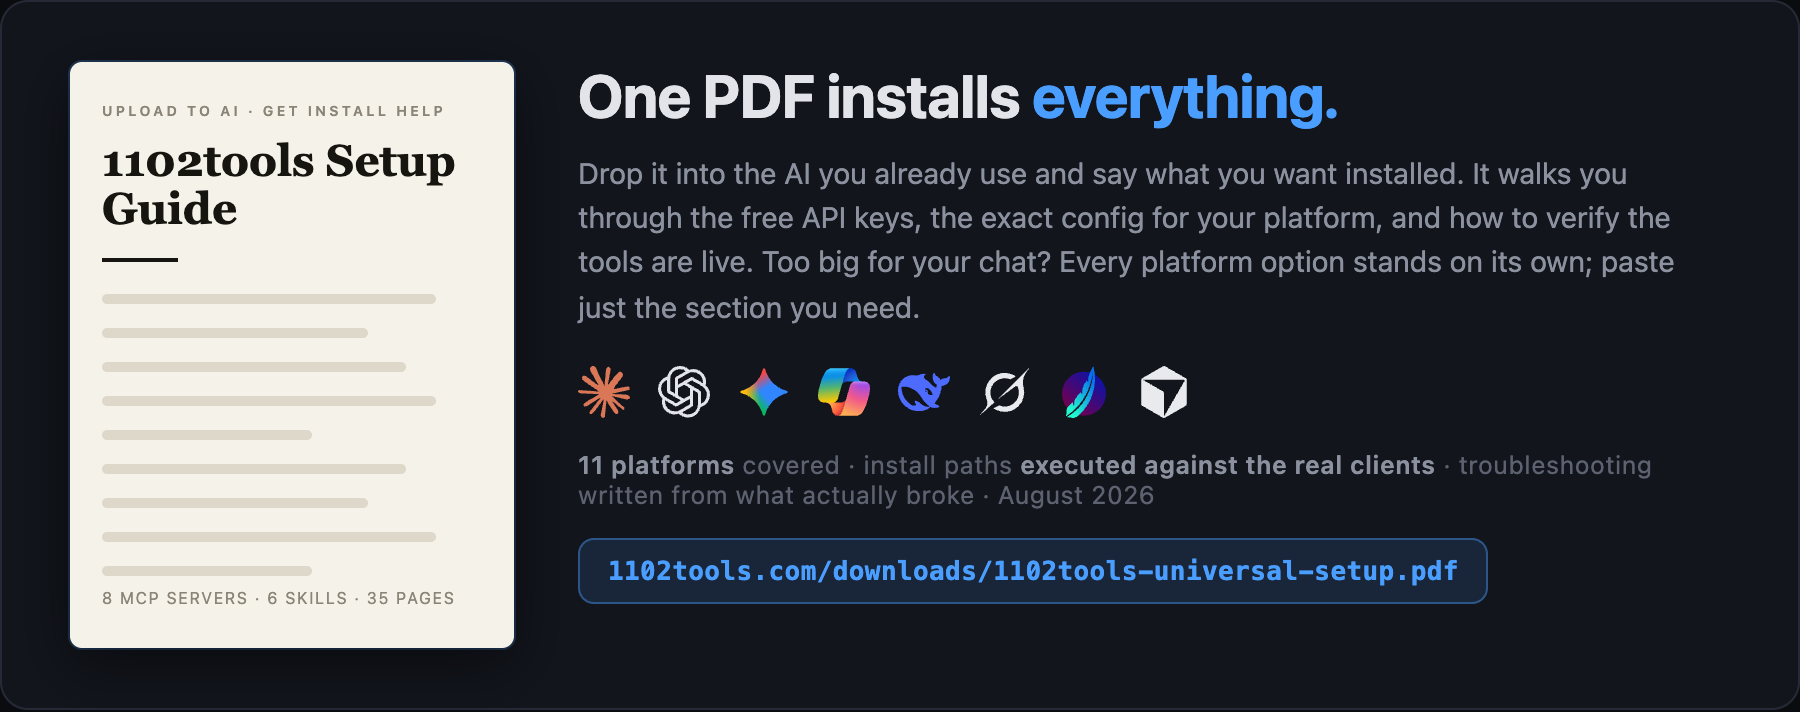
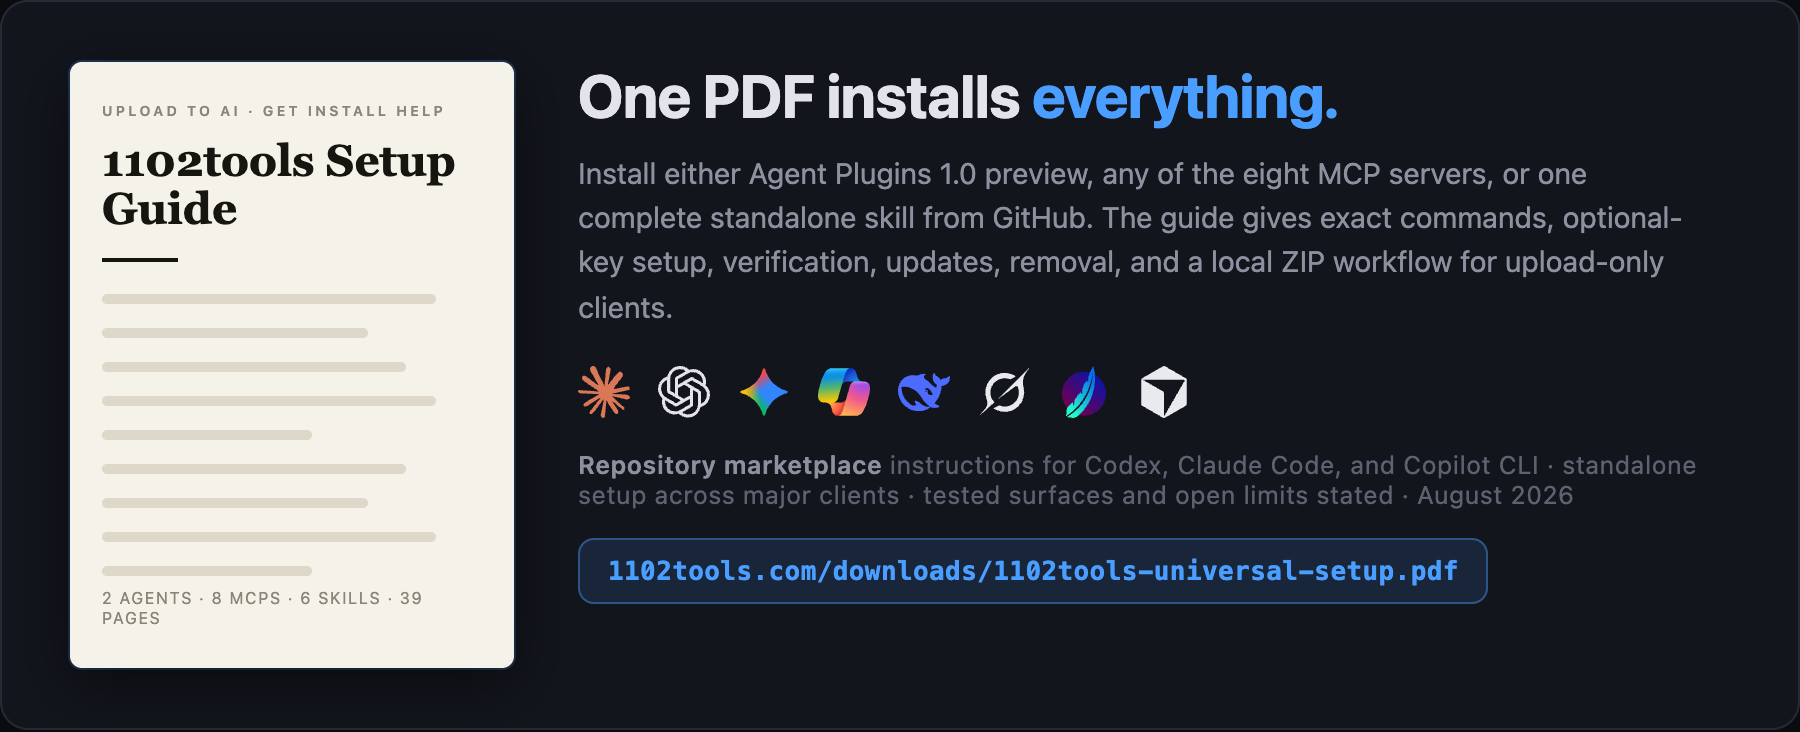
Refresh universal setup guide promotion

diff --git a/readme.md b/readme.md
@@ -8,9 +8,9 @@ Website: [1102tools.com](https://1102tools.com)
 
 ## The fastest install: hand this PDF to your AI
 
-[![The 1102tools universal setup guide: one PDF that installs everything. Drop it into the AI you already use and say what you want installed; it walks you through the free API keys, the exact config block for your platform, and how to verify the tools are live. Covers 11 platforms, install paths executed against the real clients, troubleshooting written from what actually broke. August 2026.](docs/setup-guide-promo.png)](https://1102tools.com/downloads/1102tools-universal-setup.pdf)
+[![The 1102tools universal setup guide: one PDF for two agent plugins, eight MCP servers, and six standalone skills. Repository-marketplace instructions cover Codex, Claude Code, and Copilot CLI; standalone setup covers major clients with tested surfaces and open limits stated. August 2026.](docs/setup-guide-promo.png?v=2)](https://1102tools.com/downloads/1102tools-universal-setup.pdf)
 
-**[Download the universal setup guide (PDF)](https://1102tools.com/downloads/1102tools-universal-setup.pdf)**, then drop it into Claude, ChatGPT (Codex), Gemini (Antigravity), Copilot, DeepSeek Harness, Grok, Cursor, opencode, or LibreChat and say what you want installed. The AI reads the guide and walks you through every step: free API keys, the exact config for your platform, restart, verify. If 35 pages is more than your chat will accept, paste in just the section for your platform; every option is written to stand alone. Part 9 is troubleshooting built from errors I actually hit while executing every major install path for real.
+**[Download the universal setup guide (PDF)](https://1102tools.com/downloads/1102tools-universal-setup.pdf)**, then drop it into Claude, ChatGPT (Codex), Gemini (Antigravity), Copilot, DeepSeek Harness, Grok, Cursor, opencode, or LibreChat and say what you want installed. The AI reads the guide and walks you through agent marketplace installation, free API keys, exact standalone configuration, restart, verification, updates, and removal. If 39 pages is more than your chat will accept, paste in just the section for your platform; every option is written to stand alone. The guide distinguishes tested surfaces from pending ones, and Part 9 is troubleshooting built from errors I actually encountered.
 
 [![The 1102tools prompt guide: installed, now know what to ask. Copy-paste prompts for competitor intelligence, bid decisions, recompete timing, and pricing. Covers when SAM.gov is the answer, when USASpending beats it, and the combination plays that use both, including the DoD reporting delay. Every pattern was run against the live servers before publishing. August 2026.](docs/prompt-guide-promo.png?v=3)](https://1102tools.com/downloads/1102tools-prompt-guide.pdf)
 
